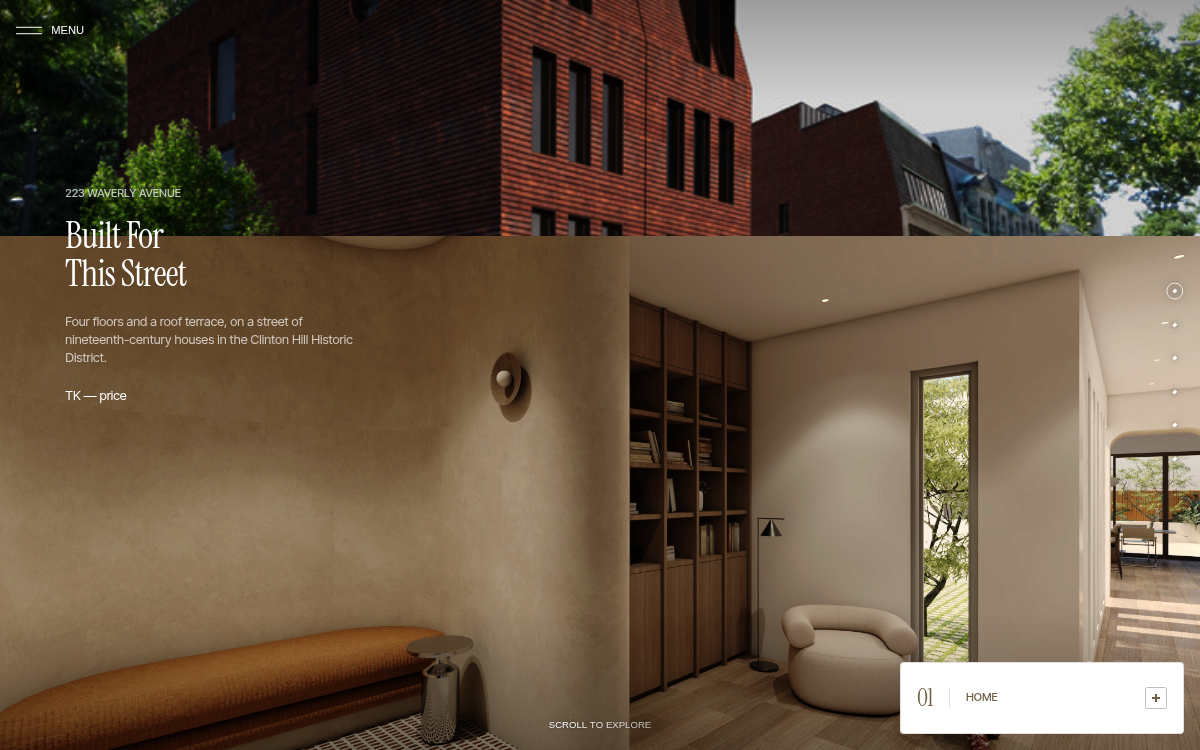
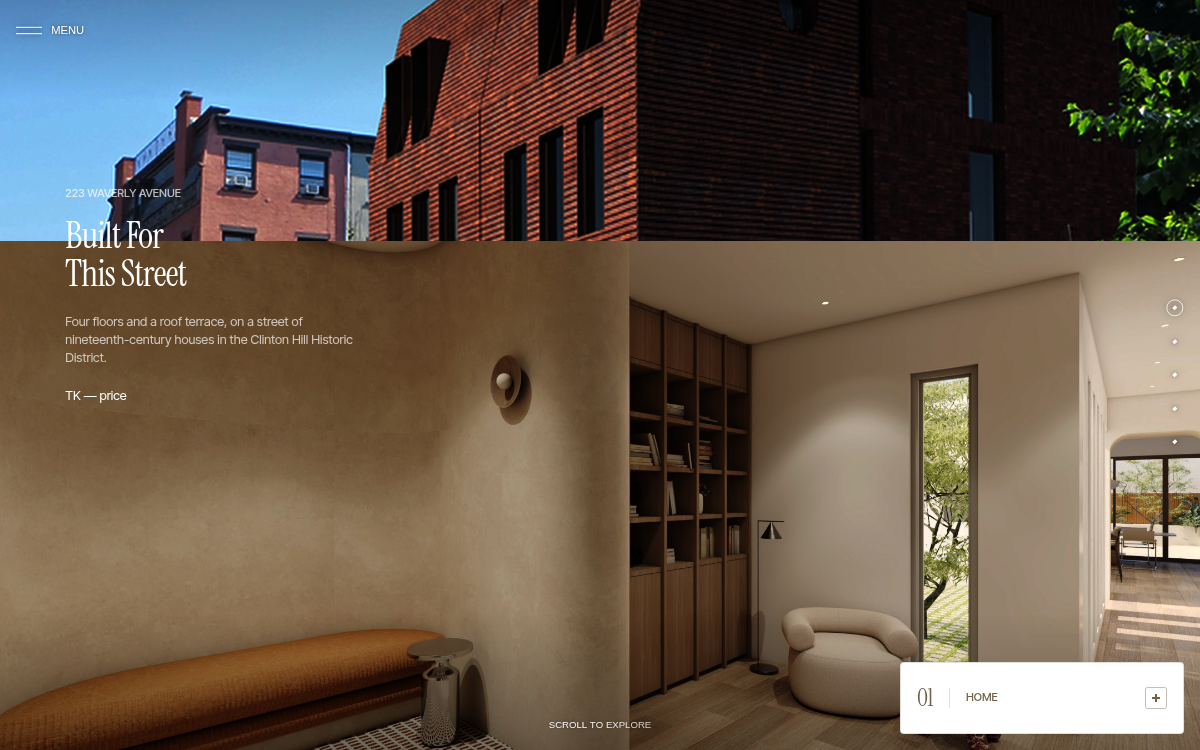
docs: bring HANDOFF to the project's resting state
Records that per-image chrome polarity supersedes the slide-range instruction
and why; that the portrait frames are crops and what that does not license;
that five slides is a decision with a written path to a sixth; and the two
things still open, both about pictures rather than code.

diff --git a/HANDOFF.md b/HANDOFF.md
@@ -189,88 +189,80 @@ Anything else full-screen — the floor panel, the intro gate — goes through i
 
 Some of this is now resolved. What remains is not a CSS problem.
 
-### Resolved: floors 1–3 are on real renders
+### Every slide has both frames
 
-27 renders were extracted from the StudioSC decks at full embedded resolution and are
-committed under `public/renders/source/` with provenance in the README there. Three slides
-are wired to them, at or near the 2440px target the reference uses:
+`public/renders/slides/` holds a landscape and a portrait frame for each slide, plus the
+3:4 menu panel. `public/renders/gallery/` holds the twelve gallery images.
+`public/renders/source/` is the provenance archive — 26 renders at full embedded
+resolution from the StudioSC decks, kept so any future crop or regrade starts from source
+rather than from something already resampled.
 
-| Slide | Render | Resolution |
+| Slide | Landscape | Portrait |
 |---|---|---|
-| 1st floor | `ENT-003-000` — entrance / foyer / library | 2400 × 1350 |
-| 2nd floor | `INT-008-009` — kitchen, terrace beyond | 2400 × 1350 |
-| 3rd floor | `INT-020-033` — primary bathroom | 3200 × 1800 |
-| intro gate | `INT-022-034` — powder room | 1440 × 1762 |
-| menu panel | `ENT-005-002` — reframed to 3:4 in CSS | 2400 × 1350 |
+| hero | 2440 × 1626 | 824 × 1430 |
+| 1st floor | 2400 × 1350 | 777 × 1350 |
+| 2nd floor | 2400 × 1350 | 777 × 1350 |
+| 3rd floor | 3200 × 1800 | 1037 × 1800 |
+| intro gate | 1440 × 1762 | 1015 × 1762 |
+| menu panel | 1012 × 1350 (3:4) | — |
 
-The menu panel is reframed to 3:4 with `object-fit` and a chosen `object-position`, **not**
-by deriving a cropped file — a decorative crop at display time is not evidence of anything,
-where a committed portrait asset would look like it was.
+The slides use `<picture>` with a `(max-width: 649px)` source, so a narrow viewport fetches
+the portrait frame and never the landscape one.
 
-The gate image is deliberately a room that **does not show the building**, so the gate no
-longer spends the reveal the entrance sequence and hero are meant to pay off. The gate
-component itself is Phase 4; the asset is wired in `src/data/slides.ts` as `gateImage` so
-it is not lost.
+### The portrait frames are crops, and that is deliberate
 
-Gallery sets for floors 1–3 are recorded in the same file as `galleries`. They are not
-wired because no lightbox exists yet — there is nothing to stub.
+**They are not separately framed photography.** An earlier version of this document said
+portrait frames must never be manufactured from landscape renders — that rule assumed a
+shoot was possible. It is not, and there is no third party to commission one from, so a
+considered crop is the only path and the honest one.
 
-### Sharper, and worse than previously recorded: the hero
+The crops are chosen per image rather than centred: the 2nd floor keeps the island and the
+terrace doors, the 3rd keeps the tub centred between its windows, and the hero sits
+entirely above the street furniture.
 
-735 × 633 **is** the resolution of the image inside the Landmarks PDF, which was exported
-at 72ppi. Re-exporting the PDF at any DPI cannot recover detail that is not in the file.
-
-This was previously written up as though a better export would help. It will not. The fix
-is **StudioSC's source render, or a re-render** — an email, not a build step. It is the
-single longest-lead item in the project and nothing in this repo can shorten it.
-
-### Still blocked
-
-| What | Status |
-|---|---|
-| **Hero / exterior** | No usable asset. See above. |
-| **4th floor / roof terrace** | Never rendered. A bathroom stands in, marked `PLACEHOLDER` in `src/data/slides.ts`. |
-| **Every portrait frame** | **No separately framed portrait asset exists for any slide.** This blocks the mobile-hero decision. |
-
-**Do not generate portrait frames by cropping the landscapes.** `spec/REBUILD.md` §4 is
-explicit that the reference shoots them separately, and that is precisely why its phone
-experience can carry zero words. A centre-crop would let the mobile-hero decision be
-closed on false evidence — the same failure mode as measuring type against a fallback
-font, which already cost this project a round.
+**This does not reopen the mobile-hero decision.** The reference renders no hero copy at
+all below 650px, and that silence is carried by frames shot for the purpose. A crop of a
+landscape render is not the same asset and does not license the same restraint. The copy
+stays on mobile until frames exist that were composed as portraits.
 
 ### Chrome polarity is a property of each image
 
-The reference is white throughout because its photography is art-directed dark at the
-edges. Ours is the inverse — pale plaster, blown ceilings, clipped windows — so the same
-principle (*chrome contrasts with imagery*) gives the opposite answer, and the chrome
-inverts to the warm neutral over most slides. The scrims invert with it: a black scrim
-under dark ink darkens exactly the ground the ink needs.
+**This supersedes an instruction to switch chrome by slide range**, and the reason is
+worth keeping. The brief was "chrome goes dark on interior slides 1–4". Measured, that
+fails: `INT-008-009` — the second-floor kitchen — is a light image overall but **dark
+exactly where the pip rail sits**, so warm ink measures 1.13:1 over it where white
+measures 5.60:1. A range rule fixes the pale images and breaks that one.
 
-**It is declared per image, not per slide range**, as `chrome: 'light' | 'dark'` in
-`src/data/slides.ts`. `INT-008-009` is the one dark interior in the set: warm ink measures
-1.13:1 at the pip rail over it where white measures 5.60:1. A range rule fixes the pale
-images and breaks that one. It is the same property that made `INT-022-034` the right
-choice for the gate.
+Polarity is therefore declared per image as `chrome: 'light' | 'dark'` in
+`src/data/slides.ts`. It belongs to the picture, not to the slide index.
 
-Measured with `scripts/verify-chrome-contrast.mjs`, which screenshots the composited page
-and reads pixels rather than modelling the stack:
+The same reasoning applies to the scrims, which invert with the ink. A black scrim under
+dark ink darkens exactly the ground the ink needs. **The reference only ever needed one
+polarity because its photography is uniformly dark at the edges; ours is not**, which is
+the whole reason any of this is a decision here and not there.
+
+Floating chrome also carries a halo in the opposite value, so it does not depend entirely
+on what is behind it.
+
+### The measured matrix
+
+`scripts/verify-chrome-contrast.mjs` screenshots the composited page and reads pixels
+rather than modelling the stack — an earlier version modelled image-plus-scrim and
+silently ignored both the inverted scrim and the halo.
 
 | Slide | ink | menu toggle | pip rail | scroll hint | section label |
 |---|---|---:|---:|---:|---:|
-| hero *(placeholder)* | white | 8.54:1 | **1.53:1** | 10.86:1 | 6.12:1 |
-| 1st entrance | warm | **2.42:1** | 4.61:1 | 3.62:1 | 6.12:1 |
-| 2nd kitchen | white | 4.09:1 | 5.75:1 | 6.28:1 | 6.12:1 |
-| 3rd primary bath | warm | **2.99:1** | **2.45:1** | 4.17:1 | 6.12:1 |
+| hero | white | 8.35:1 | 5.56:1 | 6.21:1 | 6.12:1 |
+| 1st entrance | warm | **2.42:1** | 4.61:1 | 3.61:1 | 6.12:1 |
+| 2nd kitchen | white | 4.09:1 | 5.95:1 | 6.27:1 | 6.12:1 |
+| 3rd primary bath | warm | **2.99:1** | **2.48:1** | 4.17:1 | 6.12:1 |
 
-Floating chrome also carries a halo in the opposite value, so it does not depend entirely
-on what happens to be behind it. The halo is a local edge treatment and does not show up
-in the table, which measures ink against median ground.
+The hero passes everywhere on the real frame — the plane-tree foliage across the top is
+dark where the toggle and pips sit. On the placeholder it measured 1.53:1 at the pip rail.
 
-**What is still short:** the hero pip rail (a placeholder image), and the menu toggle and
-pip rail over the primary bath, which is mid-tone enough that neither polarity clears 3:1.
-Those close when the renders are regraded or replaced, not in CSS. The requirement to hand
-whoever does it: **a darkened band at the right edge and along the bottom**, which is what
-the reference art-directs and why its identical chrome survives everywhere.
+**The primary bath fails both polarities** at the pip rail — 2.48:1 warm, 2.58:1 white —
+and the two polarities simply trade which of the other positions works. It is left as
+shipped. That one is a regrade, not a code fix.
 
 ## Copy status
 
@@ -284,6 +276,7 @@ flourish on top of it (`spec/sections.md`, "The word count").
 | Contact headline — `COME / AND / SEE` | **Chosen.** |
 | Intro headline — `TERRACOTTA / AND / BRICK` | **Chosen.** Both orderings were rendered at 390 first (`docs/review/intro-390-a-brick-first.png` and `-b-terracotta-first.png`); (b) won. At 10, 3 and 5 characters the stack narrows as it descends and resolves on a hard monosyllable, where the reverse keeps opening. It also matches the order the Landmarks deck lists the materials in. |
 | Paragraphs | **Draft.** Written to the word budget and factually grounded, but not signed off. |
+| Menu | Six entries against five slides: Home, First, Second, Third, Floorplans, Contact. Floorplans has no slide — it opens the floor panel, which is not built, so the entry is present and inert rather than silently missing. |
 | Facts marked `TK` | price, interior square footage as marketed, bed/bath count as marketed, completion date, contact email, contact phone. They render visibly on purpose. See the `TK` export at the bottom of `copy.ts`. |
 
 Everything longer — floor descriptions, specification, credits, the Landmarks story —
@@ -357,30 +350,34 @@ and real copy and screenshotted before the change was accepted — `docs/review/
 Portrait confirmed the reasoning: monumental type, comfortable air. Short landscape did
 not, and that is recorded as its own requirement below.
 
-### Required for Phase 4: the gate needs a height-aware rule
+### Built: the gate's short-viewport rule
 
-**This is not a consequence of choosing 8rem — it is true at every size in the band, and
-it is the reason the gate cannot simply be built to the width table.**
+On short landscape viewports the gate stack did not fit vertically — the button ran into
+the pinned secondary link and the headline pressed against the top edge. It did that at
+every size in the 650–1100 band, so it was a height problem, not a type-size one, and
+reverting the headline would have relocated the failure rather than fixed it.
 
-On short landscape viewports the gate composition (three-line headline, paragraph, button,
-and the secondary link pinned at `bottom: 4rem`) does not fit vertically. Measured against
-the mock:
+`spec/responsive.md` §2 records the mechanism the reference uses: aspect-ratio queries
+stepping type down on short, wide windows without touching the width breakpoints. Aspect
+alone is not enough of a discriminator here — an ordinary 1440 × 900 desktop is 1.6 and
+would be caught — so it is paired with a height ceiling, which separates a phone in
+landscape from a laptop:
 
-| Viewport | 8rem | 6.5rem |
-|---|---|---|
-| 650 × 400 | button overlaps the link by 14px; 33px of air above a 67px line | no overlap, but 52px of air above a 55px line |
-| 844 × 390 — phone landscape | overlaps by 19px | **still overlaps**, 0px clearance |
-| 926 × 428 — phone landscape | 0px clearance | clears, 19px |
+```css
+@media (min-aspect-ratio: 3/2) and (max-height: 600px) { … }
+```
 
-Reverting to 6.5rem does not solve this; it only moves which viewports fail. The cause is
-the viewport height, not the type size.
+Two things happen: the headline drops a step, and the secondary link comes out of its
+pinned position into the flow. The second removes the collision by construction rather
+than by leaving just enough room.
 
-The reference solves it and the mechanism is already in the spec: `spec/tokens.md` §6
-documents aspect-ratio queries stepping the intro headline down on short, wide windows
-(`aspect-tight`), and `spec/responsive.md` §2 lists
-`(orientation: landscape) and (max-width: 1099px)` as a dedicated phone-landscape query.
-Build the gate with a height or aspect-ratio guard from the start rather than discovering
-this again.
+`scripts/verify-gate.mjs` checks both the vertical stack and the width fit across six
+viewports. The tall cases are unchanged — 64px at 650 × 900, 74px at 768 × 1024, 96px at
+1440 × 900.
+
+The layout the rule acts on (`.intro`, `.intro__body`, `.intro__secondary`) is in
+`type.css`. The gate **component** is still Phase 4; this is the type and layout it will
+use, put in place so the rule could be verified before anything is built on it.
 
 ## Verification
 
@@ -402,3 +399,28 @@ as a clipped half-diamond (an SVG `transform` attribute compounding with a CSS
 `transform-origin`), the mobile display rules being silently undone by source order at
 equal specificity, and the webfonts silently failing to load — which had quietly invalidated
 every type measurement taken before it was caught.
+
+---
+
+## Resting state
+
+**Built:** the fluid root and slide machine (Phase 1); type, reveals and chrome (Phase 2);
+the menu overlay and lightbox (Phase 3); the transition shader, behind a flag and off
+(half of Phase 4). Five slides, all on real imagery, landscape and portrait.
+
+**Deliberately out of scope:** a fourth-floor slide; the procedural sky; the clamped
+orbit, which needs a glTF model that does not exist. The floor panel behind the menu's
+Floorplans entry and the `[+]` is not built, and neither is the gate component.
+
+**Two things still open, both about pictures rather than code:**
+
+1. **The hero is an upscale** — roughly 4x from a 669 × 633 source. It composites well and
+   sits behind type without embarrassment, but it carries no real detail. Needs StudioSC's
+   source render or a re-render.
+2. **The primary bath may want a regrade.** Its pip rail fails both chrome polarities
+   (2.48:1 warm, 2.58:1 white) because the image is mid-tone exactly where the rail sits.
+   Every other position on every other slide clears. The requirement to hand whoever
+   regrades: a darkened band at the right edge.
+
+Everything else — price, square footage, bed and bath counts, completion date, contact
+details — is marked `TK` in `src/data/copy.ts` and renders visibly on purpose.

diff --git a/README.md b/README.md
@@ -56,6 +56,7 @@ node scripts/verify-palette.mjs         # three colours, no reference hues
 node scripts/verify-reduced-motion.mjs  # hard cut, not a scaled tween
 node scripts/verify-phase3.mjs          # menu + lightbox, incl. no key leakage
 node scripts/verify-shader.mjs          # the flagged transition shader
+node scripts/verify-gate.mjs            # the gate stack, vertically and by width
 node scripts/verify-chrome-contrast.mjs # writes clips; pair with the reader in HANDOFF
 ```
 
